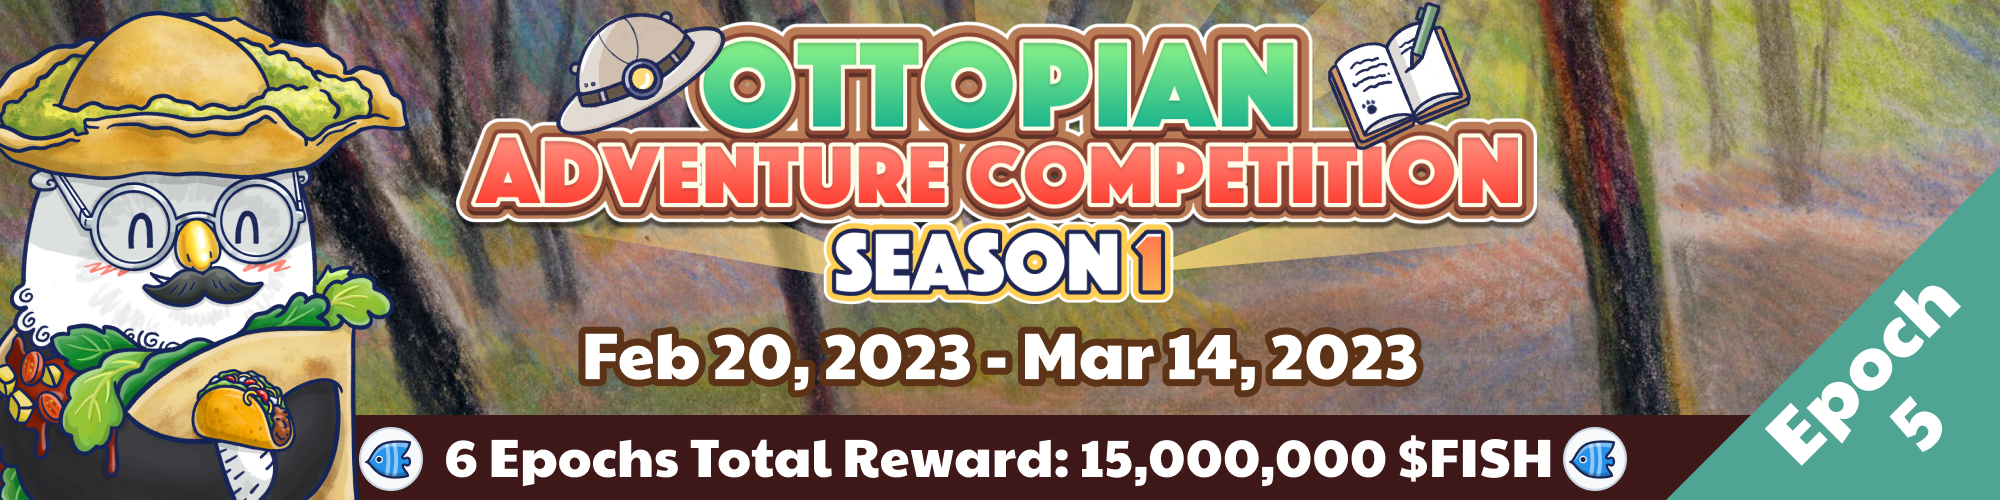
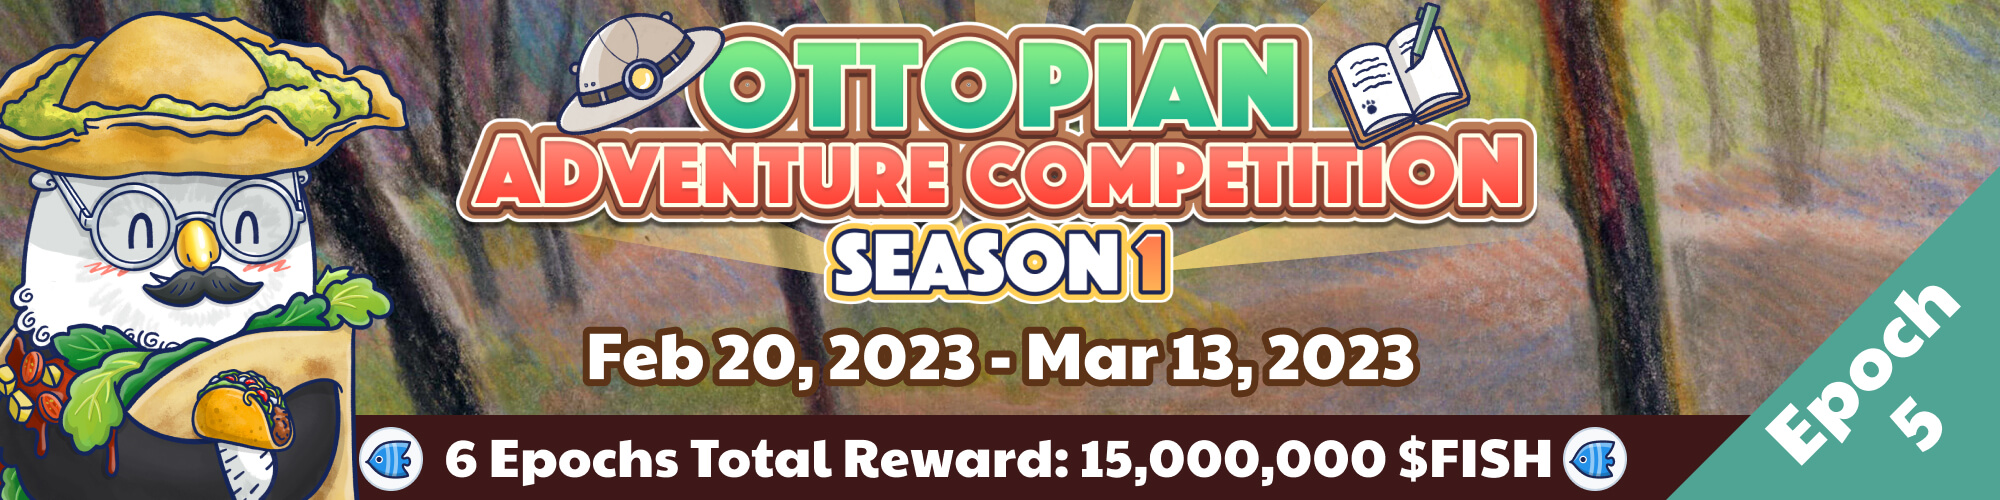
epoch6

Changed region(s): [[0.279, 0.66, 0.713, 0.78]]

diff --git a/docs/ottopia/events/rarity-competition-s3.md b/docs/ottopia/events/rarity-competition-s3.md
@@ -21,7 +21,7 @@ If you missed out, don’t worry. Season 3 of the Rarity Competition is here, an
 
 Shortcuts to each Rarity Competition epoch:
 
-* 6th Epoch (Coming soon)
+* [6th Epoch - Clambow Carnival](#6th-epoch)
 * [5th Epoch - Blue Island Holiday](#5th-epoch)
 * [4th Epoch - Sakura Love Story](#4th-epoch)
 * [3rd Epoch - Year of the Rabbit](#3rd-epoch)
@@ -30,7 +30,19 @@ Shortcuts to each Rarity Competition epoch:
 
 ---
 
-## 5th Epoch - Blue Island Holiday <a href="#5th-epoch" id="5th-epoch"></a>
+## 6th Epoch - Clambow Carnival <a href="#6th-epoch" id="6th-epoch"></a>
+
+![S3 6th Epoch](img/s3_epoch6.jpg)
+
+* Event Duration: Mar 13, 2023 0:00 ~ Apr 3, 2023 0:00 (UTC)
+
+Welcome everyone to the Clambow Carnival party in Otter Kingdom! Get ready to experience a world of color and joy as we celebrate together under the rainbow. Don't forget to bring your appetite for adventure and your love for fun, as we'll have a variety of activities and games for all ages. And if you're lucky, you might even find a shining clam at the party! So come one, come all, and let's make this carnival a day to remember!
+
+During these 3 weeks, you can earn extra rarity score values as well as rarity multipliers by styling your Otto NFTs following the theme requirements set **Rainbow** , **Clam** & **Carnival** for this epoch.
+
+---
+
+## 5th Epoch - Blue Island Holiday (Ended) <a href="#5th-epoch" id="5th-epoch"></a>
 
 ![S3 5th Epoch](img/s3_epoch5.jpeg)
 
@@ -40,9 +52,15 @@ Pack your bags and get ready to relax at a luxurious resort with breathtaking vi
 
 During these 3 weeks, you can earn extra rarity score values as well as rarity multipliers by styling your Otto NFTs following the theme requirements set **Blue** , **Oceanic** & **Resort** for this epoch.
 
+The epoch has ended and the top 3 winners are as follows:
+
+![S3 4th Epoch Winner](img/ror_s3_winner5.jpeg)
+
+Click [here](https://ottopia.app/leaderboard?epoch=15) to view the final rarity ranking of all Otto NFTs for this epoch.
+
 ---
 
-## 4th Epoch - Sakura Love Story <a href="#4th-epoch" id="4th-epoch"></a>
+## 4th Epoch - Sakura Love Story (Ended) <a href="#4th-epoch" id="4th-epoch"></a>
 
 ![S3 4th Epoch](img/s3_epoch4.jpeg)
 

diff --git a/docs/ottopia/events/adventure-competition-s1.md b/docs/ottopia/events/adventure-competition-s1.md
@@ -16,19 +16,33 @@ The more adventures your Otto NFT completes, the higher its ranking will be on t
 
 ---
 
-## 5th Epoch <a href="#5th-epoch" id="5th-epoch"></a>
+## 6th Epoch <a href="#6th-epoch" id="6th-epoch"></a>
+
+![S1 6th Epoch](img/ap_s1_epoch6.jpg)
+
+* Event Duration: Mar 13, 2023 0:00 ~ Apr 3, 2023 0:00 (UTC)
+
+The 6th epoch is live now. Get ready to the adventure and collect AP and find treasure rewards!
+
+Click [here](https://ottopia.app/leaderboard?adventure=1&epoch=16) to view the final AP ranking of all Otto NFTs for this epoch.
+
+---
+
+## 5th Epoch (Ended) <a href="#5th-epoch" id="5th-epoch"></a>
 
 ![S1 5th Epoch](img/ap_s1_epoch5.jpg)
 
 * Event Duration: Feb 20, 2023 0:00 ~ Mar 13, 2023 0:00 (UTC)
 
-The 5th epoch is live now. Get ready to the adventure and collect AP and find treasure rewards!
+The epoch has ended and the top 3 winners are as follows:
+
+![S1 5th Epoch Winners](img/ap_s1_winner5.jpg)
 
 Click [here](https://ottopia.app/leaderboard?adventure=1&epoch=15) to view the final AP ranking of all Otto NFTs for this epoch.
 
 ---
 
-## 4th Epoch <a href="#4th-epoch" id="4th-epoch"></a>
+## 4th Epoch (Ended) <a href="#4th-epoch" id="4th-epoch"></a>
 
 ![S1 4th Epoch](img/ap_s1_epoch4.jpg)
 

diff --git a/docs/ottopia/gameplay/store.md b/docs/ottopia/gameplay/store.md
@@ -46,7 +46,7 @@ Here is the formula used to show the probability of finding different rarity equ
 ## Special Chest <a href="#shell-chest" id="special-chest"></a>
 Ottopia occasionally has themed chest sales with gorgeous exclusive items.
 
-### Blue Island Holiday Chest
+### Blue Island Holiday Chest (Ended)
 
 ![Blue Island Holiday Chest Sale](img/blue_island_holiday_chest.jpeg)
 

diff --git a/docs/ottopia/gameplay/foundry.md b/docs/ottopia/gameplay/foundry.md
@@ -26,7 +26,7 @@ The $FISH token can only be used within the Ottopia website. This token will be 
 
 ## Seasonal recipe  <a href="#seasonal-recipe" id="seasonal-recipe"></a>
 
-### Blue Island Holiday
+### Blue Island Holiday (Ended)
 
 ![Blue Island Holiday](img/island_forge.jpeg)
 
